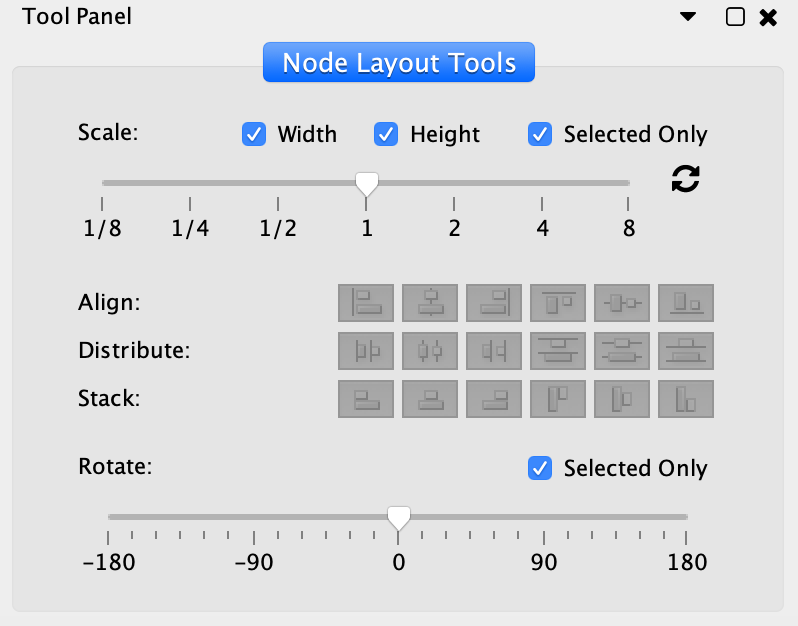
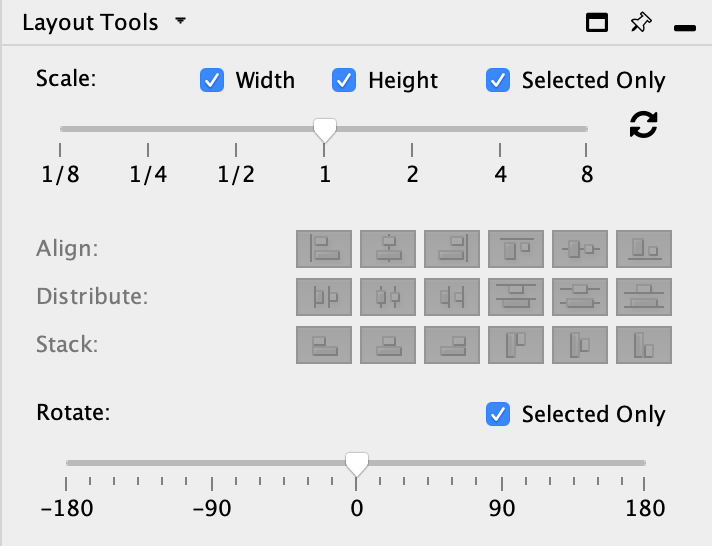
updated text and screenshots for 3.8

diff --git a/protocols/network-layout/index.html b/protocols/network-layout/index.html
@@ -33,7 +33,7 @@
 <p>Cytoscape includes many automatic layout algorithms, for organizing the network visually. All available layout algorithms are listed in the <b>Layout</b> menu, including any layout aglorithms loaded by apps. This tutorial will describe how to apply a layout to your network, give a few examples of commonly used layout algorithms, and describe how layout algorithm parameters can be adjusted.</p>
 <div class="footer" style="position: absolute;left: -5em;bottom: -5em; ">
 <img class="plain" src="../../assets/images/Cytoscape.png" style="height:70px;opacity:0.5"> 
-<version>3.7.1</version>
+<version>3.8</version>
 </div>
 </section>
 
@@ -43,7 +43,7 @@
     <ul>
         <div style="width:40%;float:right;margin-left: 50px">
             <img src="prefuse.png"></div>
-    <li>Load the <a href="https://cytoscape.github.io/cytoscape-tutorials/protocols/data/galFiltered.cys"><i>galFiltered.cys</i></a> session file. This sample session is included with your Cytoscape installation, in the <b>sampleData/sessions</b> folder.</li>
+    <li>Load the <a href="https://cytoscape.github.io/cytoscape-tutorials/protocols/data/galFiltered.cys"><i>Yeast Perturbation.cys</i></a> session file from the <highlight>Starter Panel</highlight>.</li>
     <li>To see the whole network, select <highlight>View &rarr; Fit Content</highlight>.</li>
         <p class="fragment">
     The network layout used in this session file is the <highlight>Prefuse Force Directed Layout</highlight>. This layout is based on the algorithm implemented as part of the <a href="http://www.prefuse.org/">prefuse toolkit</a>. The algorithm is very fast and with the right parameters can provide a very visually pleasing layout. The Force Directed Layout can also use a numeric edge attribute as a weight for the length of the spring.</p>
@@ -63,7 +63,7 @@
                 
 <section>
     <h1>Tool Panel</h1>
-    <p>For manual manipulation of the network layout, a set of <highlight>Node Layout Tools</highlight> are available under <highlight>View  &rarr;  Show Tool Panel</highlight> or <highlight>Layout &rarr; Node Layout Tools</highlight>. These tools include a set of tools for scaling, aligning, distributing, stacking and rotating the network and nodes. Checking the <highlight>Selected Only</highlight> checkbox will restrict the actions to selected nodes.</p>
+    <p>For manual manipulation of the network layout, a set of <highlight>Node Layout Tools</highlight> are available in the <highlight>Layout Tools</highlight> tab of the Control Panel or via <highlight>Layout &rarr; Node Layout Tools</highlight>. These tools include a set of tools for scaling, aligning, distributing, stacking and rotating the network and nodes. Checking the <highlight>Selected Only</highlight> checkbox will restrict the actions to selected nodes.</p>
     <br />
     <img src="ToolPanel.png" style="width:45%">
 </section>
